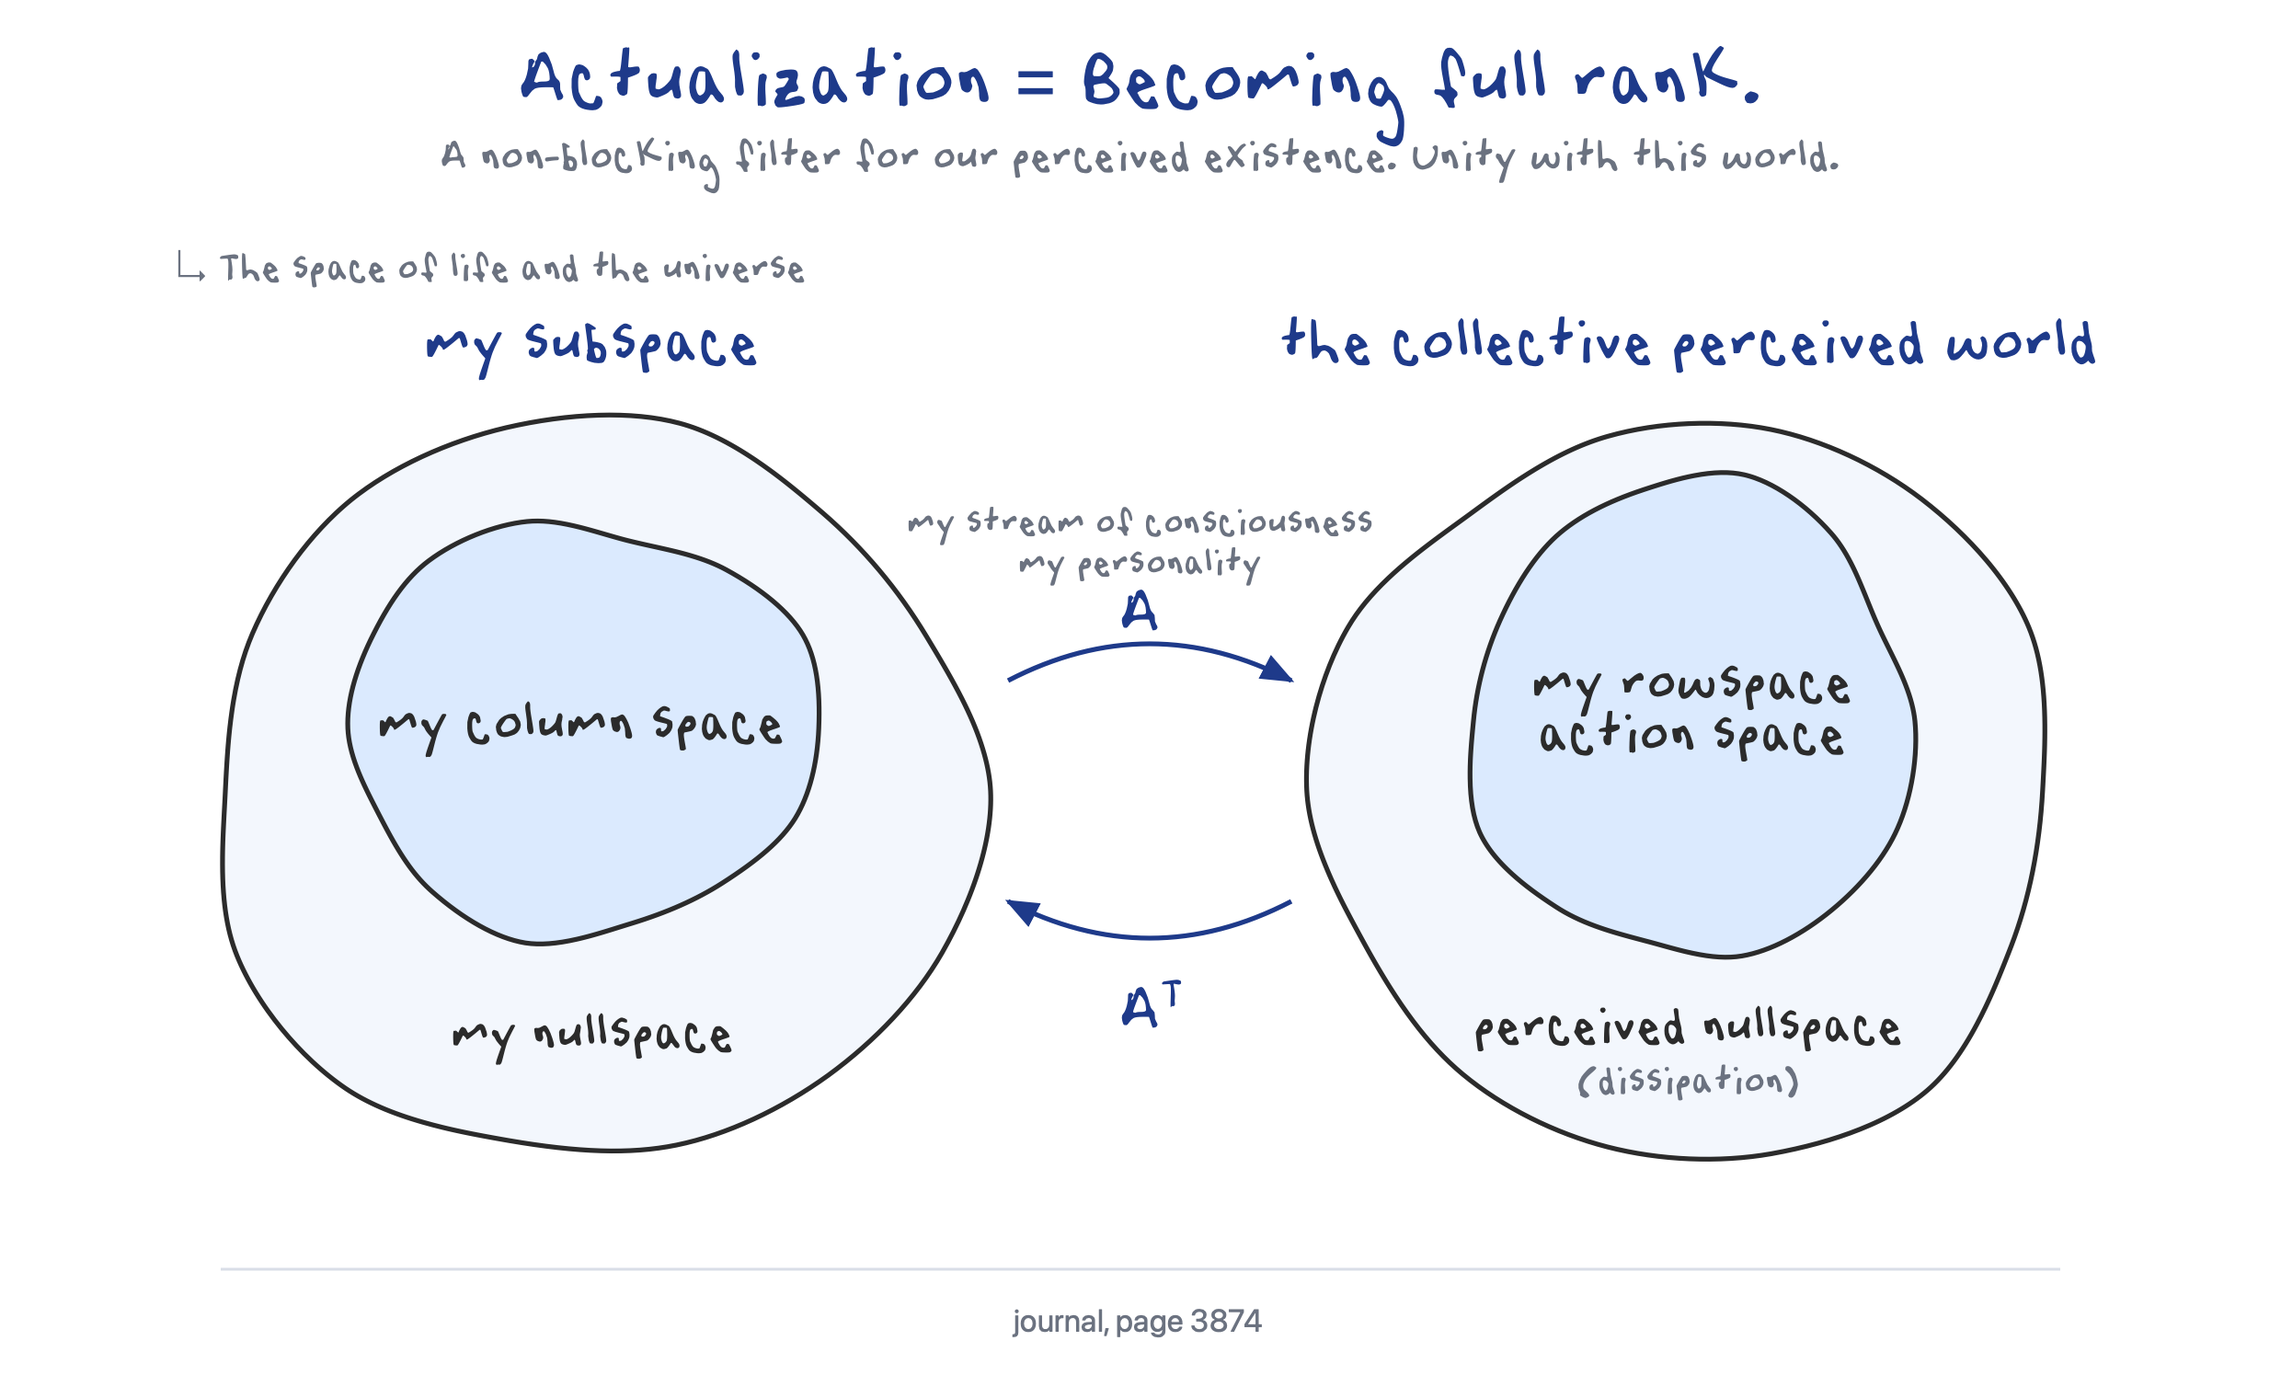
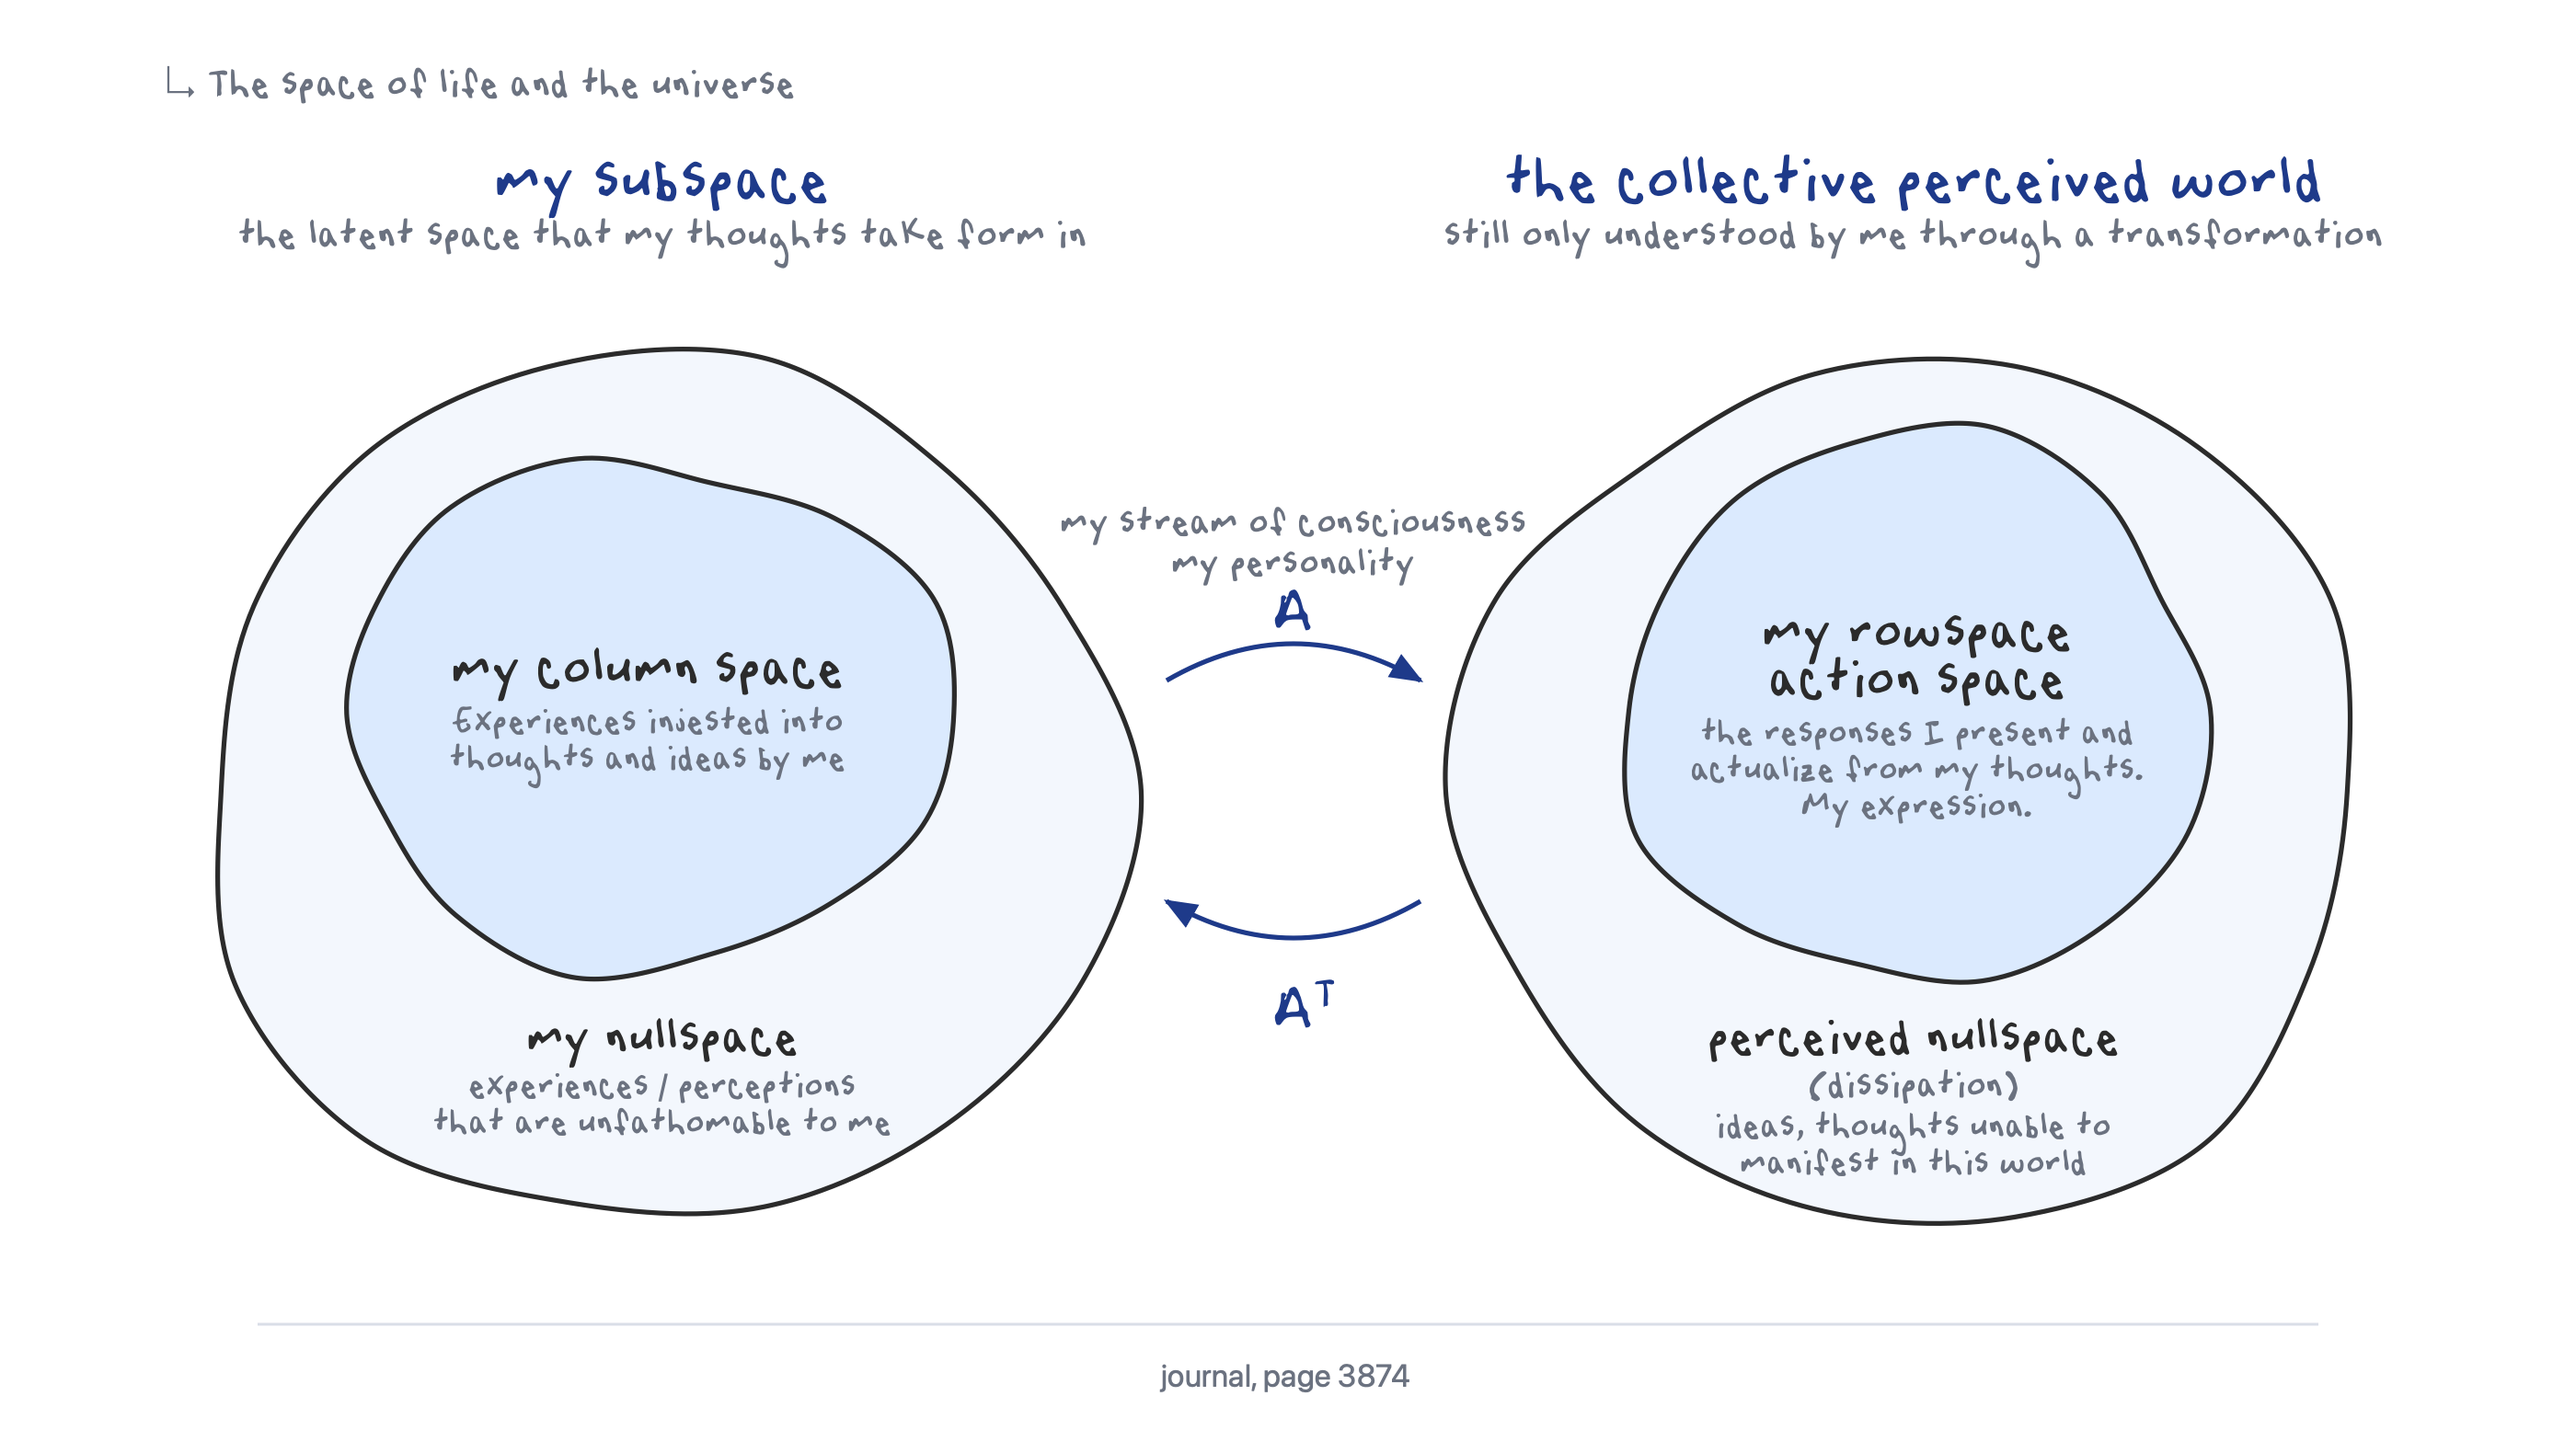
Fill in the layered view, and give the diagram its labels back
The diagram drops the heading that only repeated the paragraph introducing
it, and carries a description of each space again — worded the way the page
words them rather than paraphrased. The canvas grows to hold them. The figure
captions go too, for the same reason the heading did: they said what the
figures already say.

The actualization tab is retitled for what it actually shows, and the layered
view entry is no longer a placeholder.

diff --git a/index.html b/index.html
@@ -374,12 +374,6 @@
       border: 1px solid #e4e4e4;
     }
 
-    .entry-figure figcaption {
-      margin-top: 10px;
-      font-size: 0.72em;
-      line-height: 1.5;
-      color: #777;
-    }
 
     /* Drawings, in two flavours: .doodle-panel sits inline beside a writing
        entry, .doodle-side hangs in the margin next to a project. Both belong
@@ -862,9 +856,71 @@
       </div>
 
       <details class="entry">
-        <summary>a layered view</summary>
-        <div class="entry-body placeholder">
-          <p>coming soon</p>
+        <summary>a layered view of the world</summary>
+        <div class="entry-body">
+          <p>
+            Just as a leaf has a concrete exterior composed of cells composed of individually
+            functioning automata composed of molecules and so on, we have this layered property. It
+            might be harder to see, because being in something makes it harder to view the whole of
+            the thing. As our beingness interacts with the world spiritually, emotionally,
+            intellectually, we feel these different types of experiences in different ways. Our
+            entire experience, both physically and spiritually, is composed of layers. From the most
+            primal understanding of the world, through raw sensation and primal appreciation, to a
+            removed reflection on the ego, and the different ways we connect with others, we are
+            composed of consciousness of different complexities that either quantify the world in
+            layered ways or in the same way through different pattern recognition.
+          </p>
+          <p>
+            Take your body. You are not your body. You do not understand what your body is doing. You
+            can study the body, but you will never have the tools to paint this picture of each cell
+            within your body interacting to create a functioning network, in the way that you can
+            understand why different people - similarly complex functions taking in input and
+            reacting to other functions (other people) - might react to something you said in the way
+            they did. You can rationalize on a conceptual level, but not on a physical level, which
+            is perhaps equally as complex and interconnected. Your consciousness sits in a different
+            plane.
+          </p>
+          <p>
+            I think this is why humans are so taken by fractals - we see an abstract image of
+            ourselves in the patterns. The world is composed of fractals - self-replicating and
+            recursive patterns and we, just like any other being or system are a fractal. But not
+            only is our physical being limited to this, but also our consciousness, our personality.
+            Layers of our subconscious. This layered property in relation to the network of our self
+            is the reason we can connect with others in many ways, but not in every way - the layers
+            are infinitely recursive. We can understand the world up to some set complexity that
+            falls within our bounds of computation, just under the upper inductive layer of our
+            functioning.
+          </p>
+          <p>
+            In computer science, there is a concept of arithmetic hierarchy. The arithmetic hierarchy
+            demonstrates that any function on a particular layer is a reduction of any other function
+            on that layer using a function of lower complexity.
+          </p>
+          <p>
+            Our entire functioning within the world we can conceive therefore lies under the umbrella
+            of some functional layer, and serves as a sub function of a higher world we can never
+            understand. This is the arithmetic hierarchy, this is a slide of a fractal, of
+            compositional type systems. Anything that indicates there is composition or recursion in
+            our universe points to this reality.
+          </p>
+          <p>
+            One of my favorite takes is Baudrillard&rsquo;s simulacra, where he goes into a detailed
+            layered view on societal composition. There is an illusion of reality that many of us
+            stay stuck on, because society profits by perpetuating this layer.
+          </p>
+          <p>
+            Capitalism wants you to focus on specific problems while sweeping other layers of reality
+            under the rug. Career and consumerist movements help capitalism. Greater illusion of
+            freedom on a physical-market level of reality only feeds it. This is why in the
+            mass-society-system, we are so focused on social movements increasing spending power and
+            economic freedom while emotional issues such as loneliness and spiritual liberty are
+            discussed through art and metaphysical issues are nearly undiscussed except through
+            academic literature. Everything is composed of compositional layers.
+          </p>
+          <p>
+            Even Chomsky&rsquo;s description of language, and our conceptualization of the world talks
+            of this recursive nature.
+          </p>
         </div>
       </details>
     </div>
@@ -890,7 +946,7 @@
     <!-- The diagram carries this one, so it runs full width with no drawing
          beside it — the figures are the drawing. -->
     <details class="entry">
-      <summary>actualization</summary>
+      <summary>actualization as mathematical subspaces</summary>
       <div class="entry-body">
         <p>
           Actualization = becoming full rank. Being able to understand and feel everything in my
@@ -907,9 +963,6 @@
                     holds my rowspace, or action space, with the perceived nullspace &mdash;
                     dissipation &mdash; as the band around it. A carries the left into the right; A
                     transpose carries it back." />
-          <figcaption>
-            The space of life and the universe, redrawn from the page.
-          </figcaption>
         </figure>
 
         <p>
@@ -941,9 +994,6 @@
                alt="A sketch of a river narrowing around pebbles, annotated: flow of life, pebbles
                     causing friction and dissipation, constriction of flow when memory buildup, lack
                     of flexibility, river is my world." />
-          <figcaption>
-            Pebbles as blockers, causing friction and dissipation - the river is my world.
-          </figcaption>
         </figure>
 
         <p>
@@ -966,9 +1016,6 @@
                     below it, annotated: continuous, cyclic transformation when signal is unblocked
                     &mdash; the flow. Below it a second wave: my function, and me composed of n
                     fourier frequencies." />
-          <figcaption>
-            Continuous, cyclic transformation when the signal is unblocked - the flow.
-          </figcaption>
         </figure>
 
         <p>
